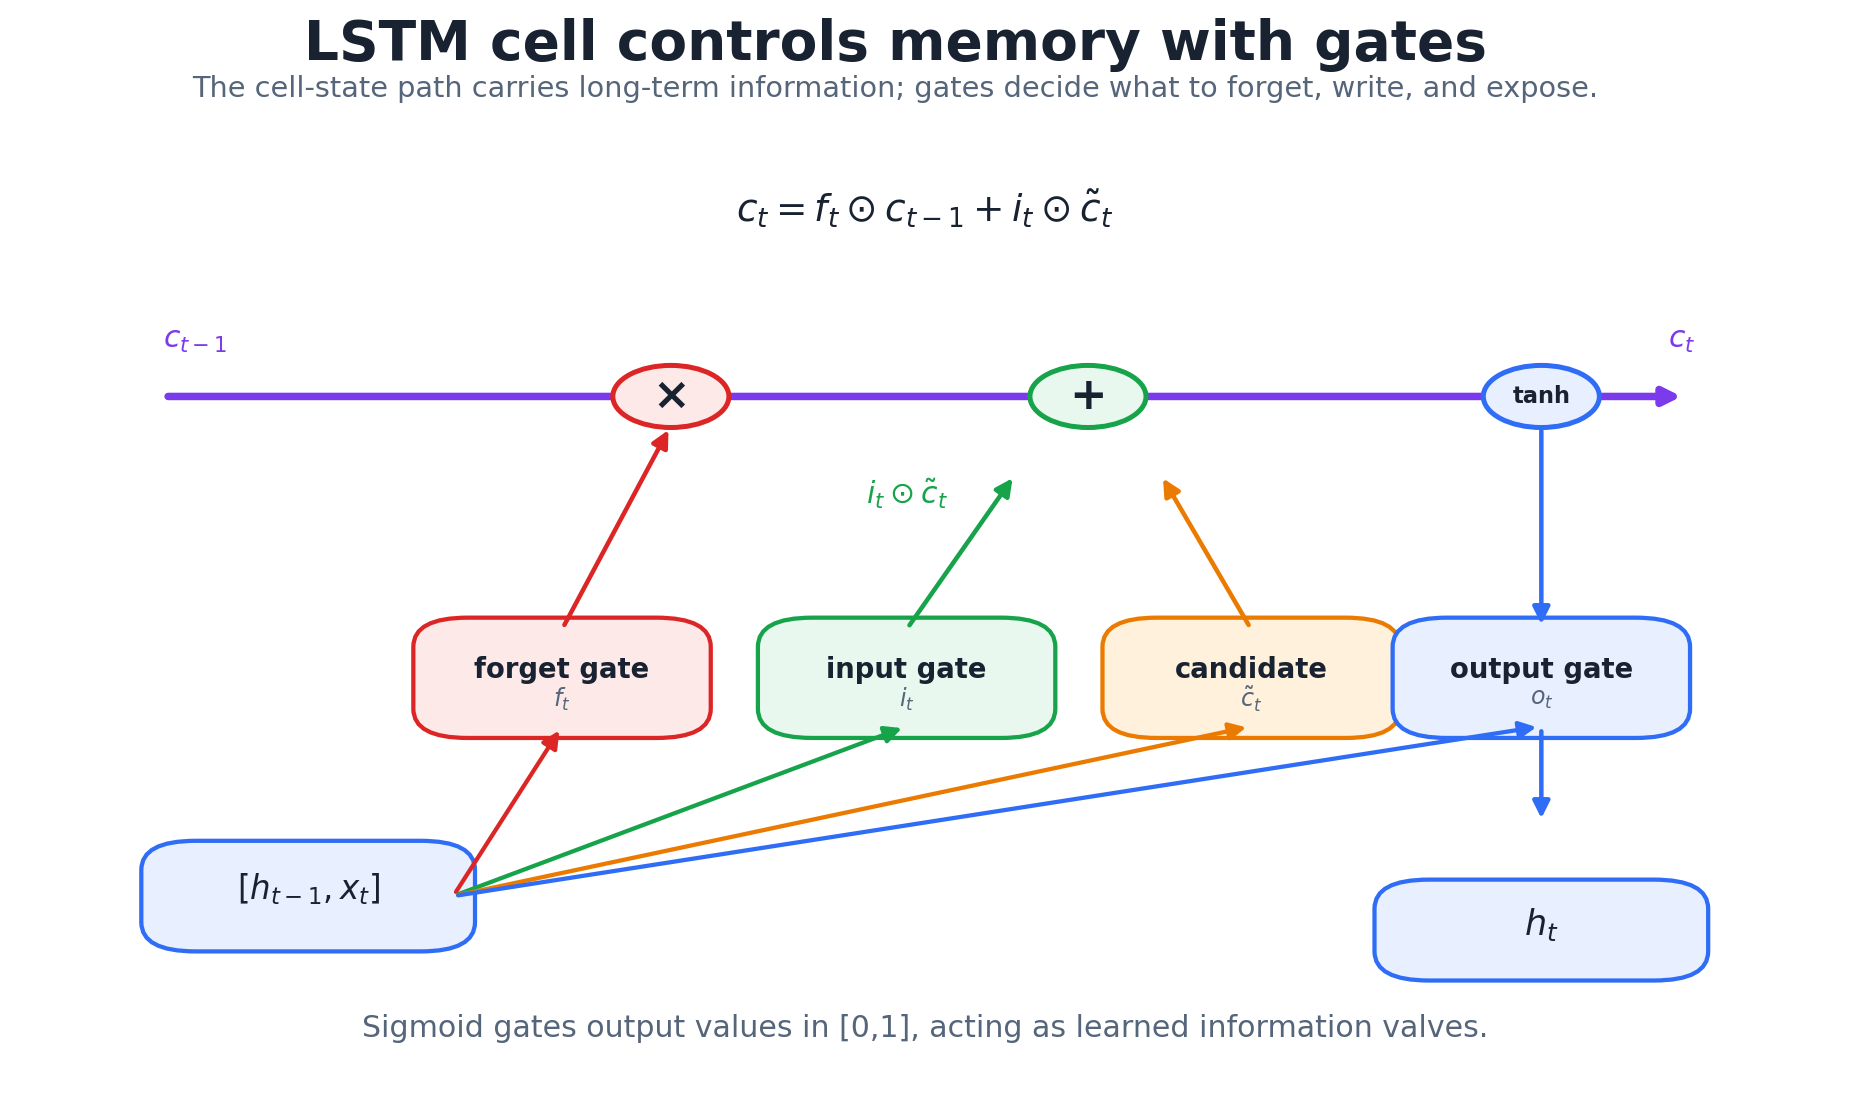
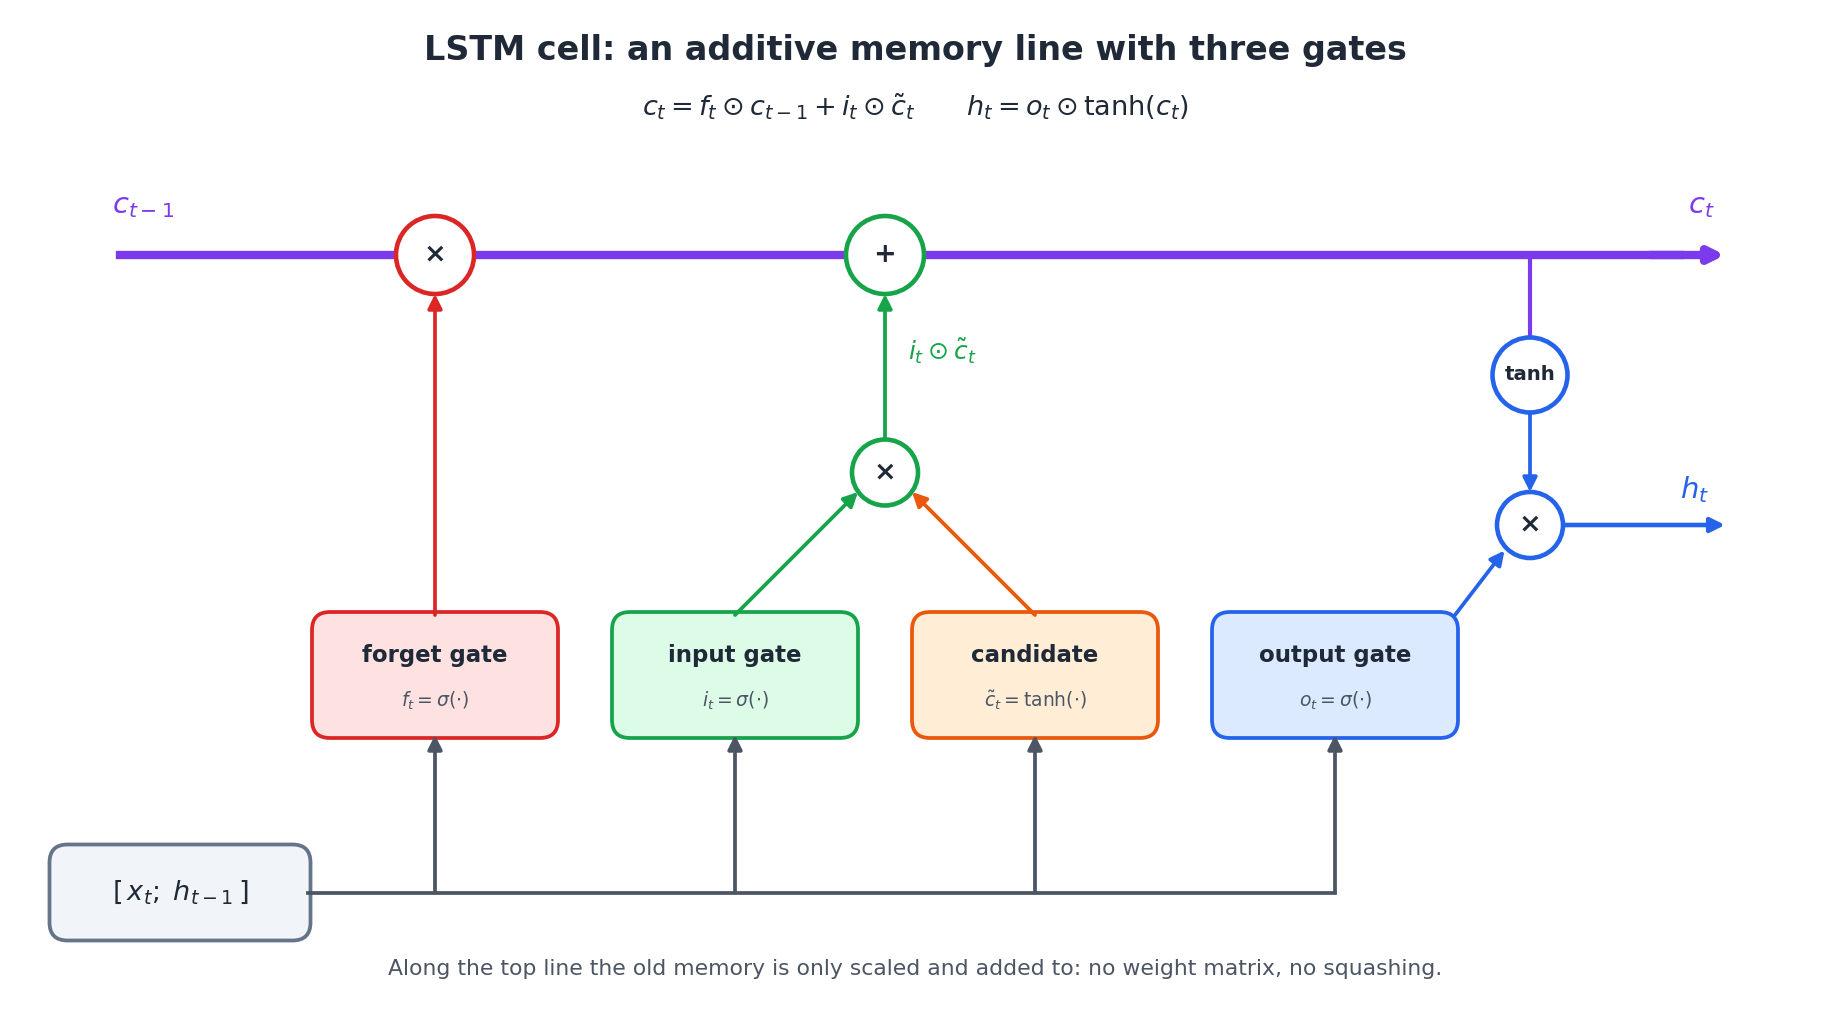
Redraw LSTM cell and transformer overview diagrams
- LSTM: tanh now sits only on the h_t branch (not on the cell line), and the
  input gate multiplies the candidate before the additive update
- Transformer: stack titles visible, x N repeat marked on both stacks,
  residual paths drawn, labels fit their boxes
- Add the generating script under assets/clean_diagrams/src

Claude-Session: https://claude.ai/code/session_01MNJB6jeNBLBpqZRMEs2v6C

diff --git a/courses/modern-temporal-learning/assets/clean_diagrams/src/make_diagrams.py b/courses/modern-temporal-learning/assets/clean_diagrams/src/make_diagrams.py
@@ -1,0 +1,152 @@
+"""Redraw the LSTM-cell and transformer-overview diagrams.
+
+Run from this folder:  python make_diagrams.py
+Writes ../lstm_memory_gates.png and ../transformer_overview.png
+"""
+import matplotlib
+matplotlib.use("Agg")
+import matplotlib.pyplot as plt
+from matplotlib.patches import FancyBboxPatch, Ellipse, FancyArrowPatch
+
+INK, MUTED = "#1f2937", "#4b5563"
+C = dict(red="#dc2626", green="#16a34a", orange="#ea580c", blue="#2563eb",
+         purple="#7c3aed", gray="#64748b")
+FILL = dict(red="#fee2e2", green="#dcfce7", orange="#ffedd5", blue="#dbeafe",
+            purple="#ede9fe", gray="#f1f5f9", yellow="#fef9c3")
+
+
+def box(ax, x, y, w, h, text, color="gray", fill=None, size=11, weight="bold", sub=None):
+    ax.add_patch(FancyBboxPatch((x - w / 2, y - h / 2), w, h,
+                                boxstyle="round,pad=0.02,rounding_size=0.12",
+                                fc=FILL[fill or color], ec=C.get(color, color), lw=1.8))
+    if sub:
+        ax.text(x, y + 0.13, text, ha="center", va="center", fontsize=size, weight=weight, color=INK)
+        ax.text(x, y - 0.17, sub, ha="center", va="center", fontsize=size - 2, color=MUTED)
+    else:
+        ax.text(x, y, text, ha="center", va="center", fontsize=size, weight=weight, color=INK)
+
+
+def node(ax, x, y, text, color, r=0.26):
+    ax.add_patch(Ellipse((x, y), 2 * r, 2 * r, fc="white", ec=C[color], lw=2.2, zorder=3))
+    ax.text(x, y, text, ha="center", va="center", fontsize=13, weight="bold", color=INK, zorder=4)
+
+
+def arrow(ax, p, q, color=INK, lw=1.8, rad=0.0, style="-|>", ls="-"):
+    ax.add_patch(FancyArrowPatch(p, q, arrowstyle=style, mutation_scale=14, color=color, lw=lw,
+                                 connectionstyle=f"arc3,rad={rad}", linestyle=ls, zorder=2,
+                                 shrinkA=0, shrinkB=0))
+
+
+def lstm():
+    fig, ax = plt.subplots(figsize=(12, 6.6))
+    ax.set_xlim(0, 12); ax.set_ylim(0, 6.6); ax.axis("off")
+    fig.subplots_adjust(0, 0, 1, 1)
+    ax.text(6, 6.3, "LSTM cell: an additive memory line with three gates", ha="center",
+            fontsize=16, weight="bold", color=INK)
+    ax.text(6, 5.93, r"$c_t=f_t\odot c_{t-1}+i_t\odot\tilde c_t \qquad h_t=o_t\odot\tanh(c_t)$",
+            ha="center", fontsize=13, color=INK)
+
+    Y = 5.0                                     # cell-state line
+    ax.plot([0.7, 11.1], [Y, Y], color=C["purple"], lw=4, zorder=1)
+    arrow(ax, (10.9, Y), (11.4, Y), C["purple"], lw=4)
+    ax.text(0.65, Y + 0.28, r"$c_{t-1}$", fontsize=14, color=C["purple"])
+    ax.text(11.15, Y + 0.28, r"$c_t$", fontsize=14, color=C["purple"])
+    node(ax, 2.8, Y, "×", "red")
+    node(ax, 5.8, Y, "+", "green")
+
+    # gates
+    G = 2.2
+    box(ax, 2.8, G, 1.6, 0.8, "forget gate", "red", sub=r"$f_t=\sigma(\cdot)$")
+    box(ax, 4.8, G, 1.6, 0.8, "input gate", "green", sub=r"$i_t=\sigma(\cdot)$")
+    box(ax, 6.8, G, 1.6, 0.8, "candidate", "orange", sub=r"$\tilde c_t=\tanh(\cdot)$")
+    box(ax, 8.8, G, 1.6, 0.8, "output gate", "blue", sub=r"$o_t=\sigma(\cdot)$")
+
+    arrow(ax, (2.8, G + 0.4), (2.8, Y - 0.26), C["red"])
+    node(ax, 5.8, 3.55, "×", "green", r=0.22)
+    arrow(ax, (4.8, G + 0.4), (5.62, 3.42), C["green"])
+    arrow(ax, (6.8, G + 0.4), (5.98, 3.42), C["orange"])
+    arrow(ax, (5.8, 3.77), (5.8, Y - 0.26), C["green"])
+    ax.text(5.95, 4.3, r"$i_t\odot\tilde c_t$", fontsize=12, color=C["green"])
+
+    # output branch: tanh only on the way to h_t
+    ax.plot([10.1, 10.1], [Y, 4.45], color=C["purple"], lw=2)
+    node(ax, 10.1, 4.2, "", "blue", r=0.25)
+    ax.text(10.1, 4.2, "tanh", ha="center", va="center", fontsize=9.5, weight="bold", color=INK, zorder=5)
+    arrow(ax, (10.1, 3.95), (10.1, 3.42), C["blue"])
+    node(ax, 10.1, 3.2, "×", "blue", r=0.22)
+    arrow(ax, (9.6, G + 0.4), (9.93, 3.03), C["blue"])
+    arrow(ax, (10.32, 3.2), (11.4, 3.2), C["blue"], lw=2.2)
+    ax.text(11.1, 3.38, r"$h_t$", fontsize=14, color=C["blue"])
+
+    # input bus
+    box(ax, 1.1, 0.75, 1.7, 0.6, r"$[\,x_t;\;h_{t-1}\,]$", "gray", weight="normal", size=13)
+    ax.plot([1.95, 8.8], [0.75, 0.75], color=MUTED, lw=1.8)
+    for x in (2.8, 4.8, 6.8, 8.8):
+        arrow(ax, (x, 0.75), (x, G - 0.4), MUTED)
+    ax.text(6, 0.2, "Along the top line the old memory is only scaled and added to: no weight matrix, no squashing.",
+            ha="center", fontsize=10.5, color=MUTED)
+    fig.savefig("../lstm_memory_gates.png", dpi=150, bbox_inches="tight", facecolor="white")
+
+
+def transformer():
+    fig, ax = plt.subplots(figsize=(12, 8.2))
+    ax.set_xlim(0, 12); ax.set_ylim(0, 8.2); ax.axis("off")
+    fig.subplots_adjust(0, 0, 1, 1)
+    ax.text(6, 7.95, "Transformer encoder–decoder", ha="center", fontsize=16, weight="bold", color=INK)
+    ax.text(6, 7.62, "Attention mixes information across positions; the feed-forward layer transforms each position on its own.",
+            ha="center", fontsize=10.5, color=MUTED)
+
+    def stack(x, layers, y0, title, n_label, side=-1):
+        top = y0 + 0.62 * (len(layers) - 1)
+        ax.add_patch(FancyBboxPatch((x - 1.75, y0 - 0.45), 3.5, top - y0 + 0.9,
+                                    boxstyle="round,pad=0.02,rounding_size=0.15",
+                                    fc="#f8fafc", ec="#cbd5e1", lw=1.5, zorder=0))
+        ax.text(x + side * 2.0, (y0 + top) / 2, n_label, ha="right" if side < 0 else "left", va="center", fontsize=13,
+                weight="bold", color=MUTED)
+        ax.text(x - 1.7, top + 0.58, title, ha="left", fontsize=12.5, weight="bold", color=INK)
+        ys = []
+        for i, (label, color) in enumerate(layers):
+            y = y0 + 0.62 * i
+            box(ax, x, y, 3.0, 0.44, label, color, size=10.5)
+            if i:
+                arrow(ax, (x, ys[-1] + 0.22), (x, y - 0.22), MUTED, lw=1.4)
+            ys.append(y)
+        return ys
+
+    # encoder
+    ex = 3.0
+    box(ax, ex, 1.0, 3.0, 0.5, "input embedding\n+ positional encoding", "blue", size=9.5)
+    enc = stack(ex, [("multi-head self-attention", "purple"), ("add & norm", "gray"),
+                     ("feed-forward (per position)", "green"), ("add & norm", "gray")],
+                2.1, "Encoder stack", "× N")
+    arrow(ax, (ex, 1.25), (ex, enc[0] - 0.22), MUTED, lw=1.4)
+    for a, b in ((0, 1), (2, 3)):                  # residual paths
+        arrow(ax, (ex + 1.5, enc[a] - 0.3), (ex + 1.5, enc[b]), C["red"], lw=1.3, rad=-0.6, ls="--")
+    box(ax, ex, 5.35, 3.0, 0.5, "encoder output (memory)", "orange", fill="yellow", size=10.5)
+    arrow(ax, (ex, enc[-1] + 0.22), (ex, 5.1), MUTED, lw=1.4)
+
+    # decoder
+    dx = 9.0
+    box(ax, dx, 1.0, 3.0, 0.5, "output embedding (shifted right)\n+ positional encoding", "blue", size=9.5)
+    dec = stack(dx, [("masked self-attention", "purple"), ("add & norm", "gray"),
+                     ("cross-attention", "purple"), ("add & norm", "gray"),
+                     ("feed-forward (per position)", "green"), ("add & norm", "gray")],
+                2.1, "Decoder stack", "× N", side=1)
+    arrow(ax, (dx, 1.25), (dx, dec[0] - 0.22), MUTED, lw=1.4)
+    for a, b in ((0, 1), (2, 3), (4, 5)):
+        arrow(ax, (dx + 1.5, dec[a] - 0.3), (dx + 1.5, dec[b]), C["red"], lw=1.3, rad=-0.6, ls="--")
+    box(ax, dx, 6.6, 3.0, 0.5, "linear + softmax (or regression head)", "orange", size=9.5)
+    arrow(ax, (dx, dec[-1] + 0.22), (dx, 6.35), MUTED, lw=1.4)
+
+    # memory → cross-attention (K, V)
+    arrow(ax, (ex + 1.5, 5.35), (dx - 1.5, dec[2]), C["orange"], lw=2.2, rad=0.25)
+    ax.text(6.0, 5.75, "keys & values from the encoder,\nqueries from the decoder", ha="center",
+            fontsize=10, color=C["orange"], weight="bold")
+    ax.text(6.0, 0.35, "Dashed red arrows: residual connections.  Training: all positions in parallel (causal mask).  "
+            "Inference: one output at a time.", ha="center", fontsize=9.5, color=MUTED)
+    fig.savefig("../transformer_overview.png", dpi=150, bbox_inches="tight", facecolor="white")
+
+
+if __name__ == "__main__":
+    lstm()
+    transformer()
